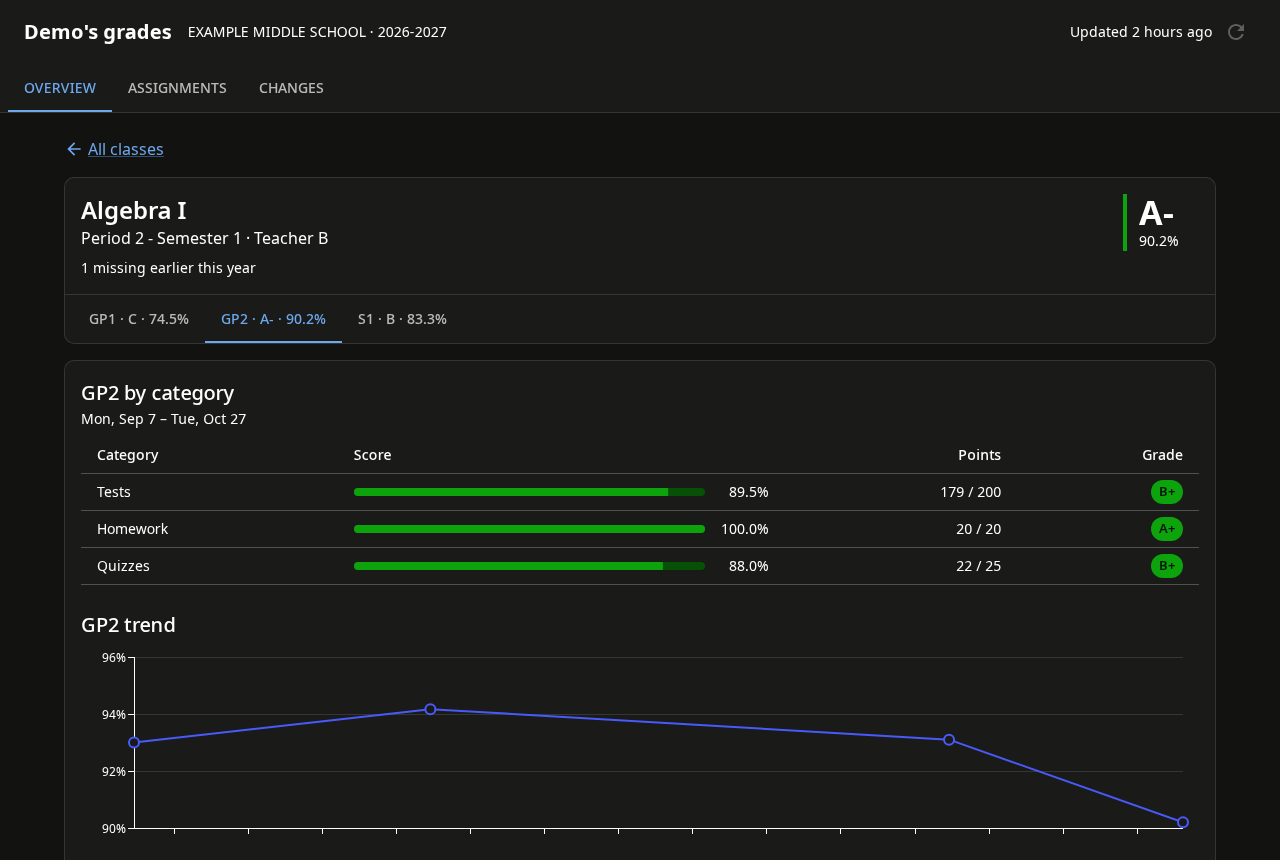
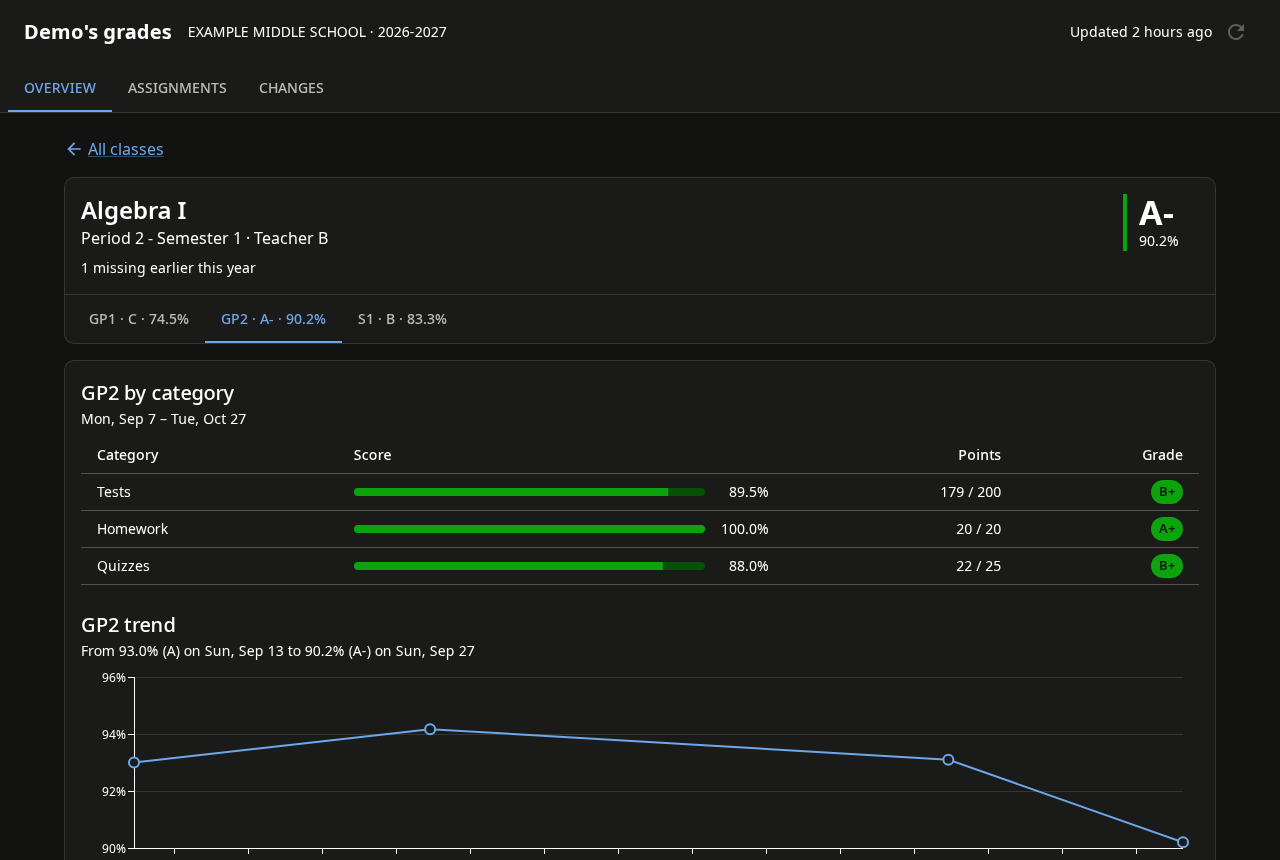
Release 0.4.1

Changed region(s): [[0.0938, 0.8163, 0.9375, 0.9977], [0.0625, 0.7558, 0.375, 0.786], [0.0625, 0.9674, 0.0938, 0.9977]]

diff --git a/docs/releases/0.4.1.md b/docs/releases/0.4.1.md
@@ -1,0 +1,26 @@
+Fixes for the new grading-period switch, and a round of accessibility fixes.
+
+## What's changed
+
+- **The grading-period switch covers every list.** On the Assignments page, *This grading
+  period / All year* used to change only the Missing list; Upcoming, Graded and All kept showing
+  the whole year. It now sits above the filters and applies to all of them, counts included.
+- **You can tell which option is selected.** The selected filter used to be a slightly different
+  grey, which was hard to see, especially in dark mode. It's now filled in and bold, and every
+  option has a clear border.
+- **Easier to read in dark mode.** Red text such as "Missing" was too faint on the dark
+  background; dark mode uses a lighter red.
+- **Better with a keyboard and a screen reader.** The grade trend chart and the rows-per-page
+  menu show where the keyboard focus is, the category score bars are labelled, and the trend
+  chart has a one-line summary above it.
+- **Works with large text.** At bigger text sizes on a phone, the filters wrap onto a second row
+  instead of running off the screen.
+
+## Upgrading
+
+`docker compose up -d` picks this up if you have `pull_policy: always`. Otherwise run
+`docker compose pull && docker compose up -d`. To stay on this release, set the image line to:
+
+```yaml
+    image: afraley/skyward-dashboard:0.4.1
+```
